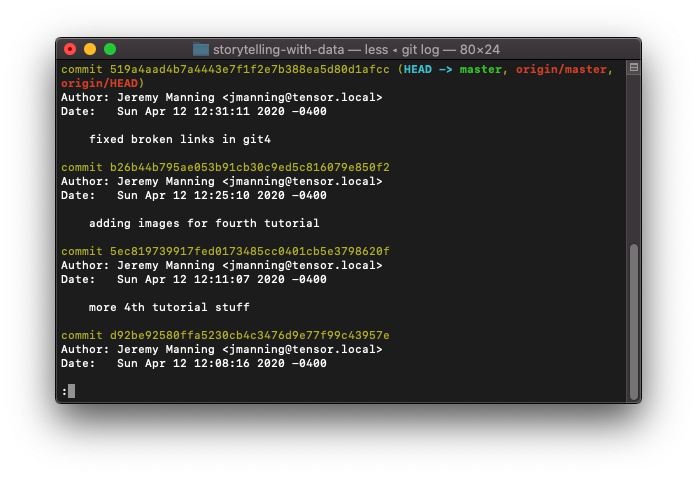
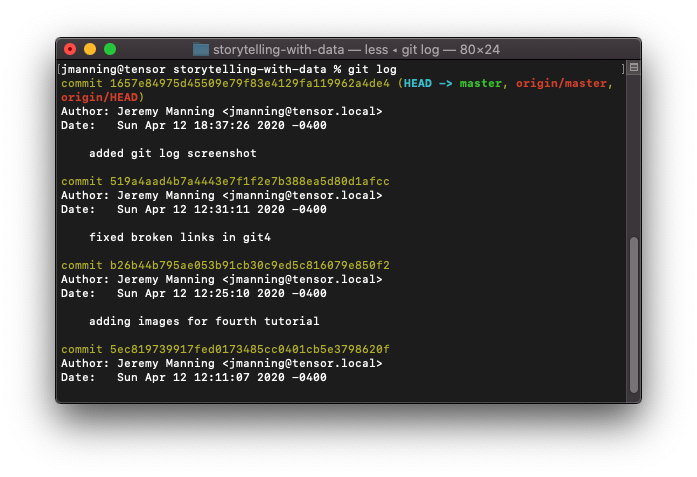
updated git tutorial

Changed region(s): [[0.0904, 0.1174, 0.8737, 0.8512], [0.9039, 0.8218, 0.934, 0.8512], [0.9039, 0.499, 0.934, 0.5283]]

diff --git a/slides/git4.html b/slides/git4.html
@@ -22,45 +22,48 @@
 <p><img src="https://raw.githubusercontent.com/jeremymanning/storytelling-with-data/master/slides/figs/git_force_add.png" alt="height:750px" style="height:750px;" /></p>
 </section>
 </foreignObject></svg><svg data-marpit-svg="" viewBox="0 0 1280 720"><foreignObject width="1280" height="720"><section id="5" data-class="invert lead" data-theme="uncover" class="invert lead" style="--class:invert lead;--theme:uncover;">
-<p><img src="https://raw.githubusercontent.com/jeremymanning/storytelling-with-data/master/slides/figs/github_page.png" alt="height:750px" style="height:750px;" /></p>
+<p><img src="https://raw.githubusercontent.com/jeremymanning/storytelling-with-data/master/slides/figs/git_log.png" alt="height:750px" style="height:750px;" /></p>
 </section>
 </foreignObject></svg><svg data-marpit-svg="" viewBox="0 0 1280 720"><foreignObject width="1280" height="720"><section id="6" data-class="invert lead" data-theme="uncover" class="invert lead" style="--class:invert lead;--theme:uncover;">
-<p><img src="https://raw.githubusercontent.com/jeremymanning/storytelling-with-data/master/slides/figs/github_commits.png" alt="height:750px" style="height:750px;" /></p>
-</section>
-</foreignObject></svg><svg data-marpit-svg="" viewBox="0 0 1280 720"><foreignObject width="1280" height="720"><section id="7" data-class="invert lead" data-theme="uncover" class="invert lead" style="--class:invert lead;--theme:uncover;">
-<p><img src="https://raw.githubusercontent.com/jeremymanning/storytelling-with-data/master/slides/figs/git_commits_highlighted.png" alt="height:750px" style="height:750px;" /></p>
-</section>
-</foreignObject></svg><svg data-marpit-svg="" viewBox="0 0 1280 720"><foreignObject width="1280" height="720"><section id="8" data-class="invert lead" data-theme="uncover" class="invert lead" style="--class:invert lead;--theme:uncover;">
-<p><img src="https://raw.githubusercontent.com/jeremymanning/storytelling-with-data/master/slides/figs/git_revert.png" alt="height:750px" style="height:750px;" /></p>
-</section>
-</foreignObject></svg><svg data-marpit-svg="" viewBox="0 0 1280 720"><foreignObject width="1280" height="720"><section id="9" data-class="invert lead" data-theme="uncover" class="invert lead" style="--class:invert lead;--theme:uncover;">
 <p><img src="https://raw.githubusercontent.com/jeremymanning/storytelling-with-data/master/slides/figs/github_page.png" alt="height:750px" style="height:750px;" /></p>
 </section>
-</foreignObject></svg><svg data-marpit-svg="" viewBox="0 0 1280 720"><foreignObject width="1280" height="720"><section id="10" data-class="invert lead" data-theme="uncover" class="invert lead" style="--class:invert lead;--theme:uncover;">
+</foreignObject></svg><svg data-marpit-svg="" viewBox="0 0 1280 720"><foreignObject width="1280" height="720"><section id="7" data-class="invert lead" data-theme="uncover" class="invert lead" style="--class:invert lead;--theme:uncover;">
 <p><img src="https://raw.githubusercontent.com/jeremymanning/storytelling-with-data/master/slides/figs/github_commits.png" alt="height:750px" style="height:750px;" /></p>
 </section>
+</foreignObject></svg><svg data-marpit-svg="" viewBox="0 0 1280 720"><foreignObject width="1280" height="720"><section id="8" data-class="invert lead" data-theme="uncover" class="invert lead" style="--class:invert lead;--theme:uncover;">
+<p><img src="https://raw.githubusercontent.com/jeremymanning/storytelling-with-data/master/slides/figs/git_commits_highlighted.png" alt="height:750px" style="height:750px;" /></p>
+</section>
+</foreignObject></svg><svg data-marpit-svg="" viewBox="0 0 1280 720"><foreignObject width="1280" height="720"><section id="9" data-class="invert lead" data-theme="uncover" class="invert lead" style="--class:invert lead;--theme:uncover;">
+<p><img src="https://raw.githubusercontent.com/jeremymanning/storytelling-with-data/master/slides/figs/git_revert.png" alt="height:750px" style="height:750px;" /></p>
+</section>
+</foreignObject></svg><svg data-marpit-svg="" viewBox="0 0 1280 720"><foreignObject width="1280" height="720"><section id="10" data-class="invert lead" data-theme="uncover" class="invert lead" style="--class:invert lead;--theme:uncover;">
+<p><img src="https://raw.githubusercontent.com/jeremymanning/storytelling-with-data/master/slides/figs/github_page.png" alt="height:750px" style="height:750px;" /></p>
+</section>
 </foreignObject></svg><svg data-marpit-svg="" viewBox="0 0 1280 720"><foreignObject width="1280" height="720"><section id="11" data-class="invert lead" data-theme="uncover" class="invert lead" style="--class:invert lead;--theme:uncover;">
-<p><img src="https://raw.githubusercontent.com/jeremymanning/storytelling-with-data/master/slides/figs/github_commit_browse_files.png" alt="height:750px" style="height:750px;" /></p>
+<p><img src="https://raw.githubusercontent.com/jeremymanning/storytelling-with-data/master/slides/figs/github_commits.png" alt="height:750px" style="height:750px;" /></p>
 </section>
 </foreignObject></svg><svg data-marpit-svg="" viewBox="0 0 1280 720"><foreignObject width="1280" height="720"><section id="12" data-class="invert lead" data-theme="uncover" class="invert lead" style="--class:invert lead;--theme:uncover;">
-<p><img src="https://raw.githubusercontent.com/jeremymanning/storytelling-with-data/master/slides/figs/git_commit_view_files.png" alt="height:750px" style="height:750px;" /></p>
+<p><img src="https://raw.githubusercontent.com/jeremymanning/storytelling-with-data/master/slides/figs/github_commit_browse_files.png" alt="height:750px" style="height:750px;" /></p>
 </section>
 </foreignObject></svg><svg data-marpit-svg="" viewBox="0 0 1280 720"><foreignObject width="1280" height="720"><section id="13" data-class="invert lead" data-theme="uncover" class="invert lead" style="--class:invert lead;--theme:uncover;">
-<p><img src="https://raw.githubusercontent.com/jeremymanning/storytelling-with-data/master/slides/figs/git_checkout.png" alt="height:750px" style="height:750px;" /></p>
+<p><img src="https://raw.githubusercontent.com/jeremymanning/storytelling-with-data/master/slides/figs/git_commit_view_files.png" alt="height:750px" style="height:750px;" /></p>
 </section>
 </foreignObject></svg><svg data-marpit-svg="" viewBox="0 0 1280 720"><foreignObject width="1280" height="720"><section id="14" data-class="invert lead" data-theme="uncover" class="invert lead" style="--class:invert lead;--theme:uncover;">
-<p><img src="https://raw.githubusercontent.com/jeremymanning/storytelling-with-data/master/slides/figs/git_create_branch.png" alt="height:750px" style="height:750px;" /></p>
+<p><img src="https://raw.githubusercontent.com/jeremymanning/storytelling-with-data/master/slides/figs/git_checkout.png" alt="height:750px" style="height:750px;" /></p>
 </section>
 </foreignObject></svg><svg data-marpit-svg="" viewBox="0 0 1280 720"><foreignObject width="1280" height="720"><section id="15" data-class="invert lead" data-theme="uncover" class="invert lead" style="--class:invert lead;--theme:uncover;">
-<p><img src="https://raw.githubusercontent.com/jeremymanning/storytelling-with-data/master/slides/figs/git_switch_to_branch.png" alt="height:750px" style="height:750px;" /></p>
+<p><img src="https://raw.githubusercontent.com/jeremymanning/storytelling-with-data/master/slides/figs/git_create_branch.png" alt="height:750px" style="height:750px;" /></p>
 </section>
 </foreignObject></svg><svg data-marpit-svg="" viewBox="0 0 1280 720"><foreignObject width="1280" height="720"><section id="16" data-class="invert lead" data-theme="uncover" class="invert lead" style="--class:invert lead;--theme:uncover;">
-<p><img src="https://raw.githubusercontent.com/jeremymanning/storytelling-with-data/master/slides/figs/git_merge.png" alt="height:750px" style="height:750px;" /></p>
+<p><img src="https://raw.githubusercontent.com/jeremymanning/storytelling-with-data/master/slides/figs/git_switch_to_branch.png" alt="height:750px" style="height:750px;" /></p>
 </section>
 </foreignObject></svg><svg data-marpit-svg="" viewBox="0 0 1280 720"><foreignObject width="1280" height="720"><section id="17" data-class="invert lead" data-theme="uncover" class="invert lead" style="--class:invert lead;--theme:uncover;">
-<p><img src="https://raw.githubusercontent.com/jeremymanning/storytelling-with-data/master/slides/figs/git_remote.png" alt="height:750px" style="height:750px;" /></p>
+<p><img src="https://raw.githubusercontent.com/jeremymanning/storytelling-with-data/master/slides/figs/git_merge.png" alt="height:750px" style="height:750px;" /></p>
 </section>
 </foreignObject></svg><svg data-marpit-svg="" viewBox="0 0 1280 720"><foreignObject width="1280" height="720"><section id="18" data-class="invert lead" data-theme="uncover" class="invert lead" style="--class:invert lead;--theme:uncover;">
+<p><img src="https://raw.githubusercontent.com/jeremymanning/storytelling-with-data/master/slides/figs/git_remote.png" alt="height:750px" style="height:750px;" /></p>
+</section>
+</foreignObject></svg><svg data-marpit-svg="" viewBox="0 0 1280 720"><foreignObject width="1280" height="720"><section id="19" data-class="invert lead" data-theme="uncover" class="invert lead" style="--class:invert lead;--theme:uncover;">
 <p><img src="https://raw.githubusercontent.com/jeremymanning/storytelling-with-data/master/slides/figs/git_pull_upstream_master.png" alt="height:750px" style="height:750px;" /></p>
 </section>
 <script>!function(){"use strict";function t(t){Array.from(document.getElementsByTagName("svg"),e=>{if(e.hasAttribute("data-marpit-svg")){const{clientHeight:r,clientWidth:a}=e;e.style.transform||(e.style.transform="translateZ(0)");const o=t||e.currentScale||1,i=e.viewBox.baseVal.width/o,n=e.viewBox.baseVal.height/o,s=Math.min(r/n,a/i);Array.from(e.querySelectorAll(":scope > foreignObject"),t=>{const e=t.x.baseVal.value,o=t.y.baseVal.value;Array.from(t.querySelectorAll(":scope > section"),t=>{t.style.transformOrigin||(t.style.transformOrigin="0 0");const l=(a-s*i)/2-e,c=(r-s*n)/2-o;t.style.transform=`translate3d(${l}px,${c}px,0) scale(${s}) translate(${e}px,${o}px)`})})}})}const e=(t,e,r)=>{if(t.getAttribute(e)!==r)return t.setAttribute(e,r),!0};function r(a=!0){for(const e of"Apple Computer, Inc."===navigator.vendor?[t]:[])e();Array.from(document.querySelectorAll('svg[data-marp-fitting="svg"]'),t=>{const r=t.firstChild,a=r.firstChild,{scrollWidth:o,scrollHeight:i}=a;let n,s=1;if(t.hasAttribute("data-marp-fitting-code")&&(n=t.parentElement.parentElement),t.hasAttribute("data-marp-fitting-math")&&(n=t.parentElement),n){const t=getComputedStyle(n),e=Math.ceil(n.clientWidth-parseFloat(t.paddingLeft)-parseFloat(t.paddingRight));e&&(s=e)}const l=Math.max(o,s),c=Math.max(i,1),p=`0 0 ${l} ${c}`;e(r,"width",`${l}`),e(r,"height",`${c}`),e(t,"preserveAspectRatio",getComputedStyle(t).getPropertyValue("--preserve-aspect-ratio")||"xMinYMin meet"),e(t,"viewBox",p)&&t.classList.toggle("__reflow__")}),a&&window.requestAnimationFrame(()=>r(a))}!function(){if("undefined"==typeof window)throw new Error("Marp Core's browser script is valid only in browser context.");window.marpCoreBrowserScript?console.warn("Marp Core's browser script has already executed."):(Object.defineProperty(window,"marpCoreBrowserScript",{value:!0}),r())}()}();
